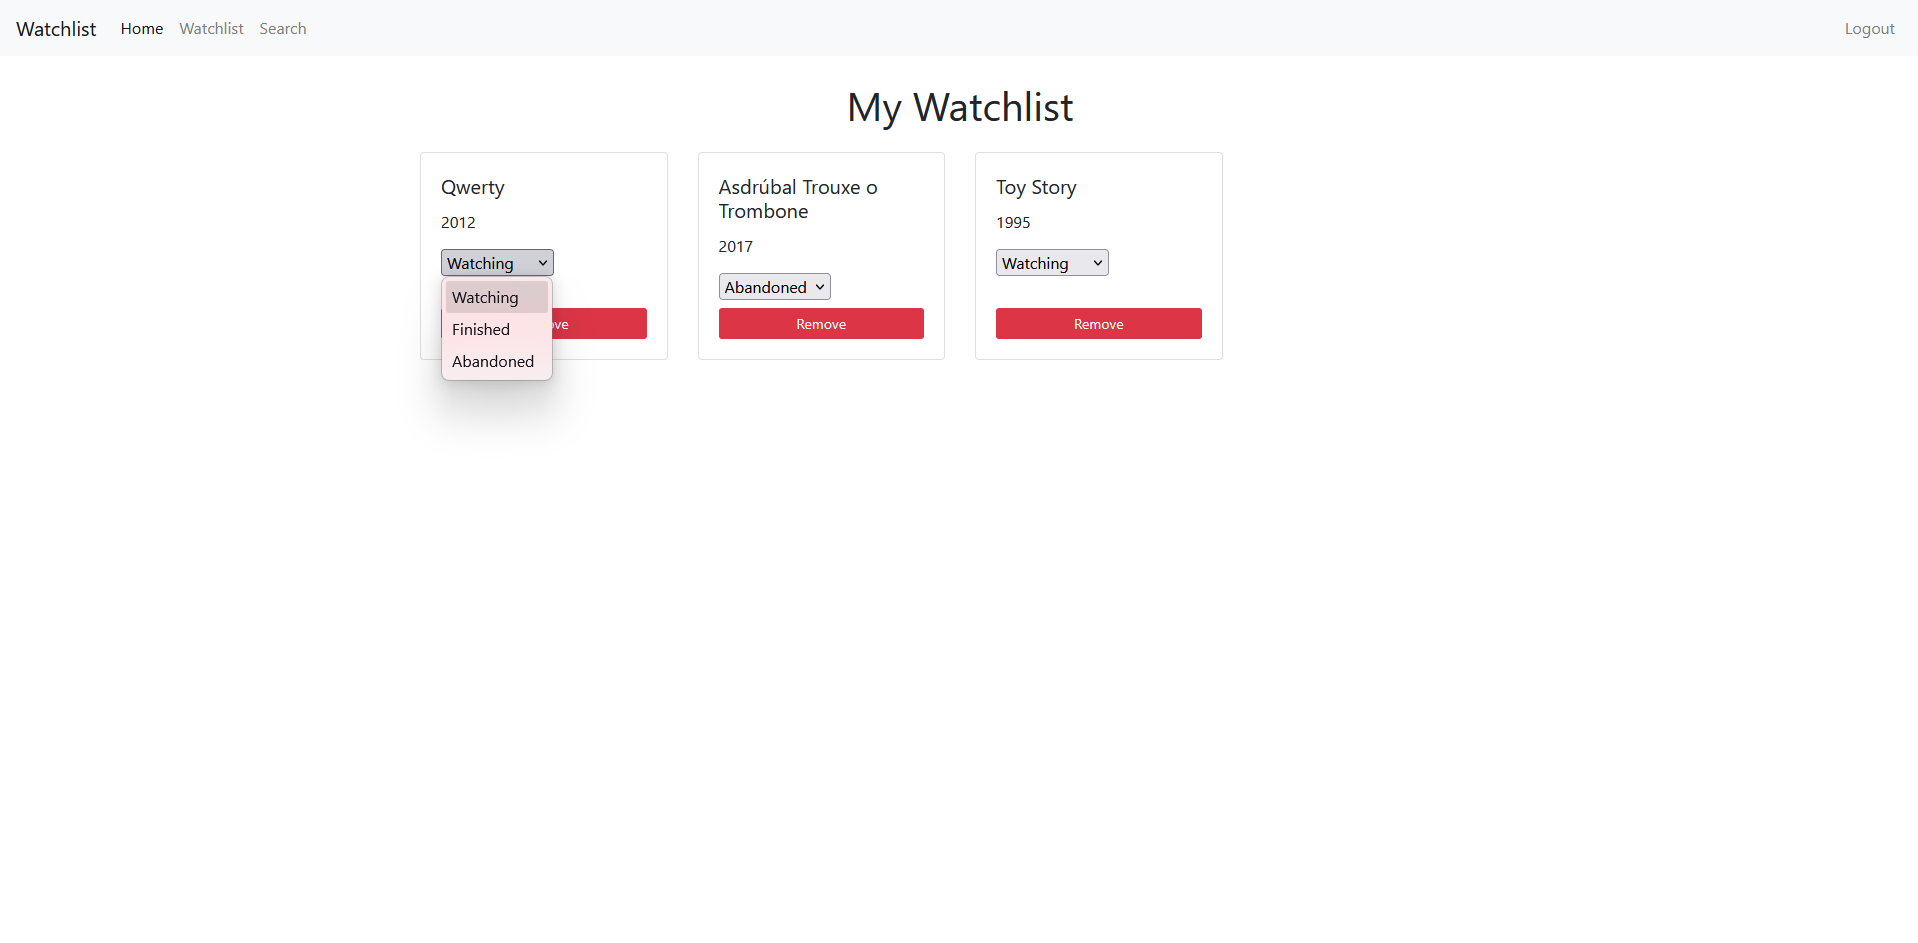
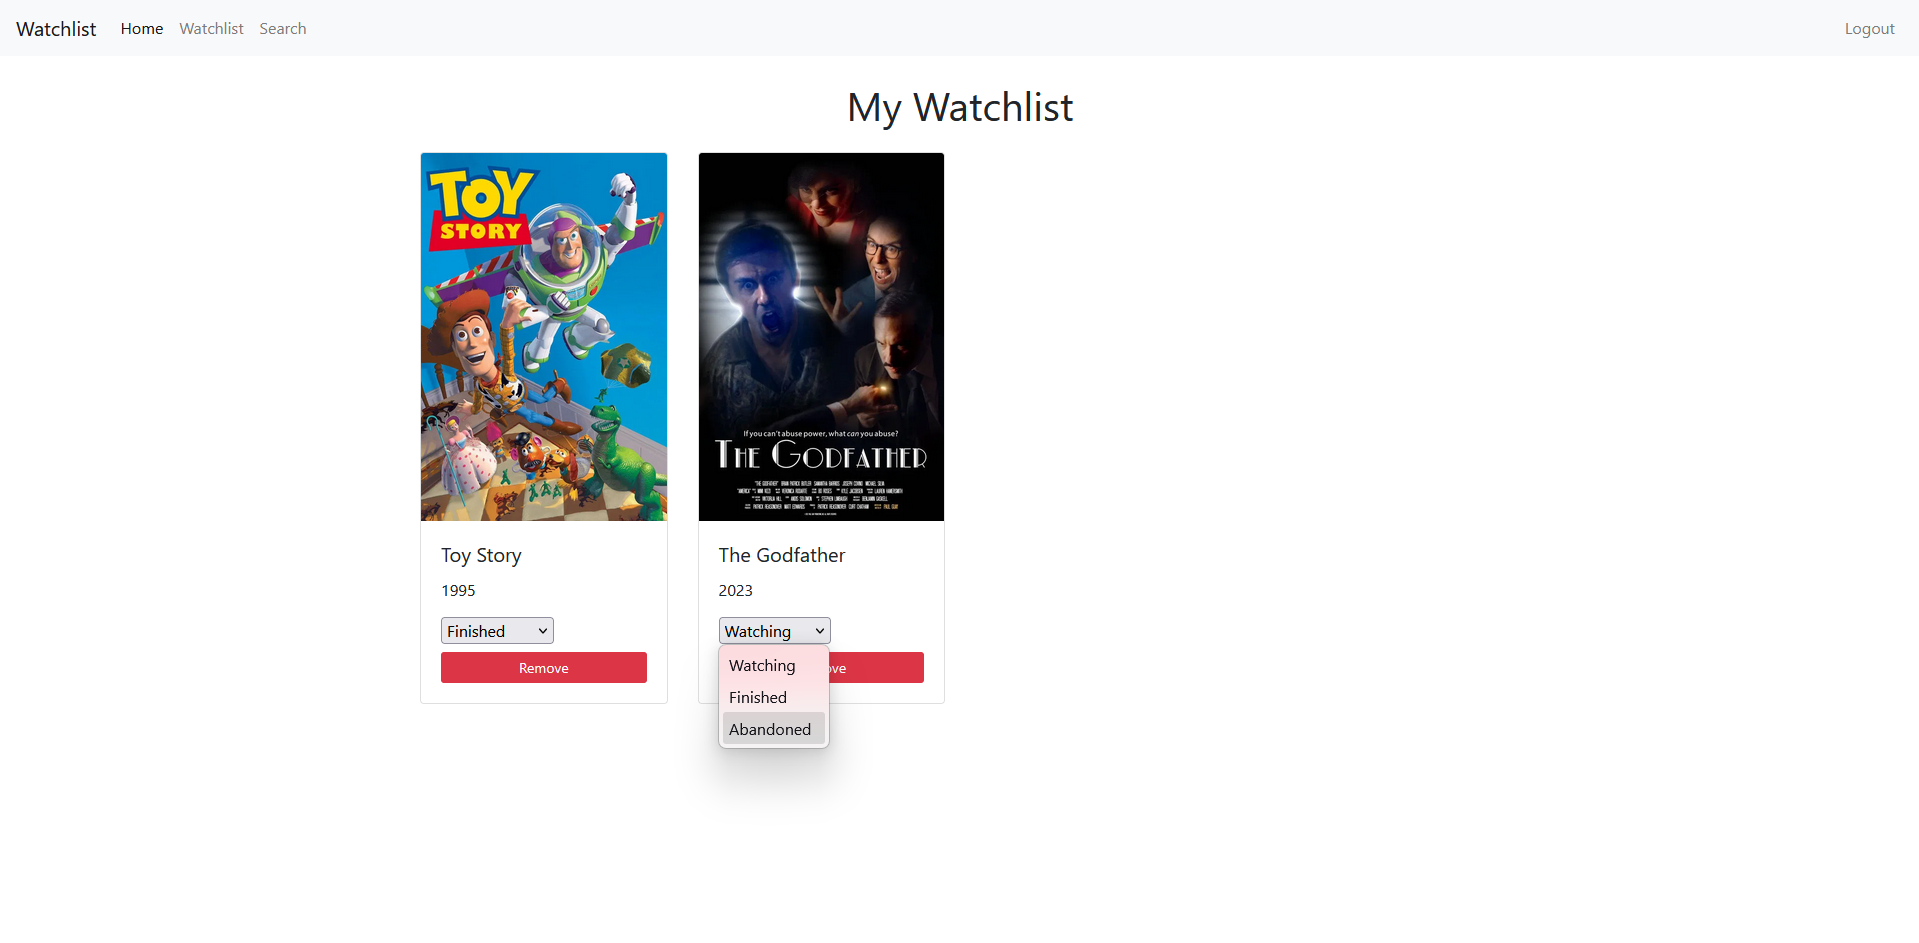
Add posters for watchlists Update screenshots

diff --git a/watchlist/films/templates/films/search.html b/watchlist/films/templates/films/search.html
@@ -27,7 +27,8 @@
                         {% csrf_token %}
                         <input type="hidden" name="tmdb_id" value="{{ movie.id }}">
                         <input type="hidden" name="title" value="{{ movie.title }}">
-                        <input type="hidden" name="year" value="{{ movie.release_date|slice:":4" }}">
+                        <input type="hidden" name="year" value="{{ movie.release_date|slice:':4' }}">
+                        <input type="hidden" name="poster_path" value="{{ movie.poster_path }}">
                         <button type="submit" class="btn btn-success w-100">Add to Watchlist</button>
                     </form>
                     {% else %}

diff --git a/watchlist/userlists/views.py b/watchlist/userlists/views.py
@@ -14,10 +14,11 @@ def add_to_watchlist(request):
         tmdb_id = request.POST.get("tmdb_id")
         title = request.POST.get("title")
         year = request.POST.get("year")
+        poster_path = request.POST.get("poster_path")
 
         film, created = Film.objects.get_or_create(
             tmdb_id=tmdb_id,
-            defaults={"title": title, "year": year or None},
+            defaults={"title": title, "year": year or None, "poster_path": poster_path,},
         )
 
         Watchlist.objects.get_or_create(

diff --git a/watchlist/films/models.py b/watchlist/films/models.py
@@ -6,3 +6,4 @@ class Film(models.Model):
     tmdb_id = models.IntegerField(unique=True)
     title = models.CharField(max_length=200)
     year = models.PositiveSmallIntegerField(null=True, blank=True)
+    poster_path = models.CharField(max_length=200, null=True, blank=True)
